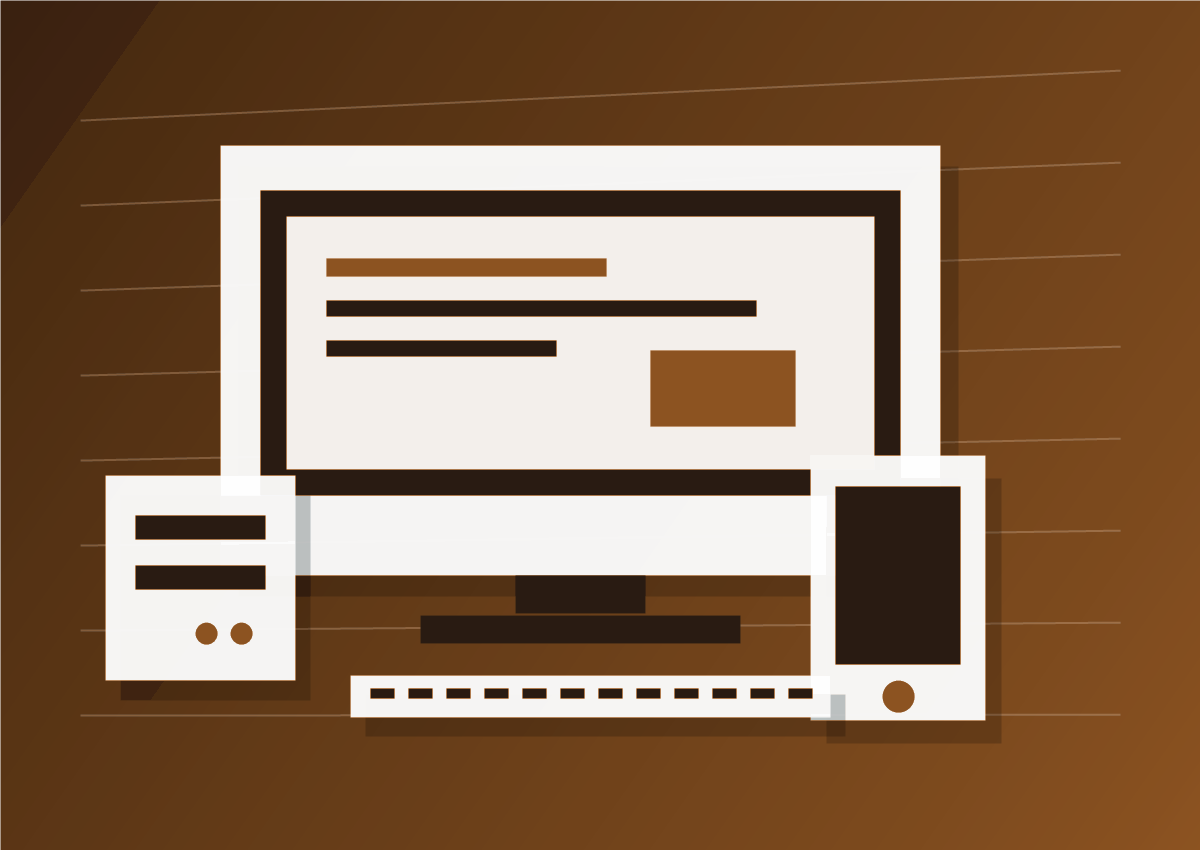
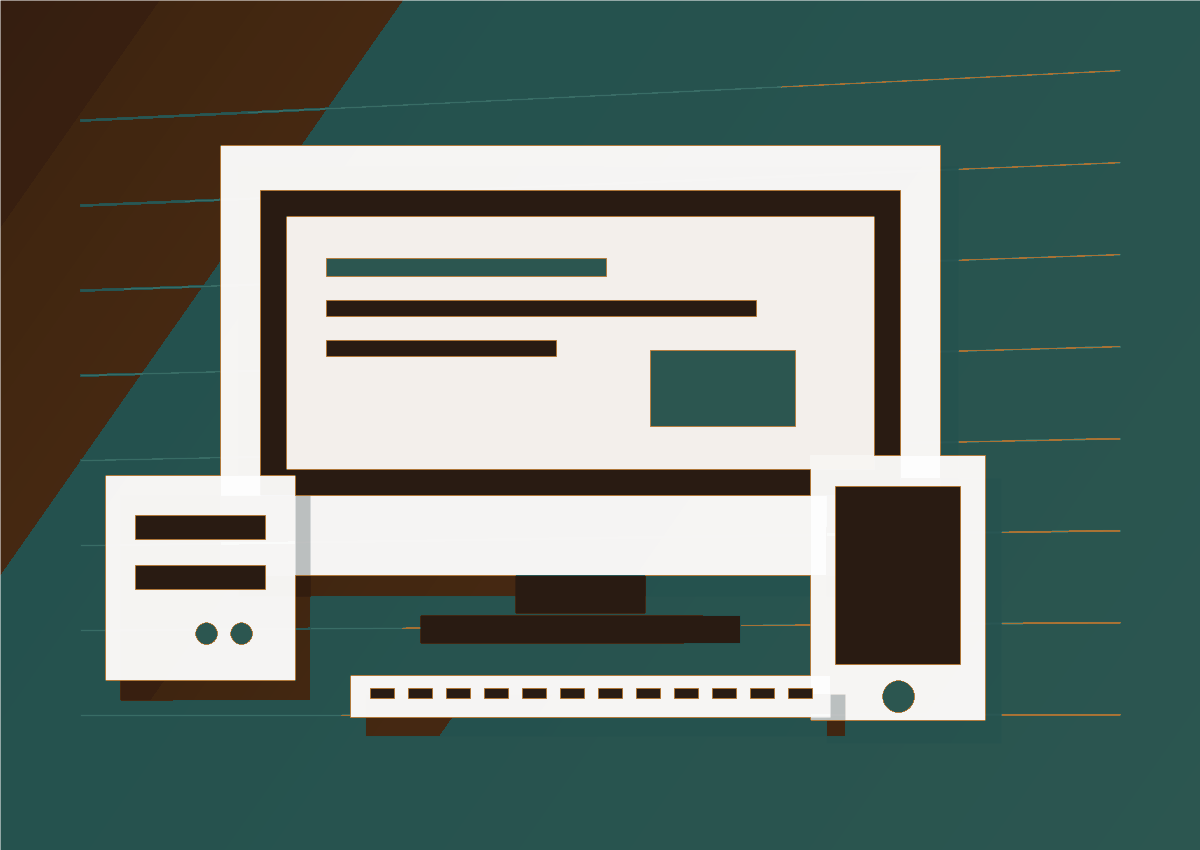
Update site color palette

diff --git a/style.css b/style.css
@@ -1,17 +1,17 @@
 :root {
-  --bg: #f7f2ec;
+  --bg: #f4f1ec;
   --surface: #ffffff;
-  --surface-soft: #f2e5d7;
+  --surface-soft: #e8f0e8;
   --ink: #24160f;
-  --muted: #6f5b4c;
-  --line: #e1d1c2;
+  --muted: #5f665f;
+  --line: #d8ded4;
   --primary: #5a341f;
   --primary-strong: #2d1a10;
-  --teal: #a4612d;
-  --teal-dark: #7a421d;
-  --warning: #a36a22;
+  --teal: #28706f;
+  --teal-dark: #1d5758;
+  --warning: #b0762f;
   --danger: #b42318;
-  --shadow: 0 18px 50px rgba(90, 52, 31, 0.14);
+  --shadow: 0 18px 50px rgba(90, 52, 31, 0.13);
   --radius: 8px;
 }
 
@@ -132,7 +132,7 @@ textarea {
   color: #ffffff;
   font-weight: 800;
   cursor: pointer;
-  box-shadow: 0 10px 20px rgba(164, 97, 45, 0.22);
+  box-shadow: 0 10px 20px rgba(40, 112, 111, 0.22);
 }
 
 .btn:hover {
@@ -162,7 +162,8 @@ textarea {
 .hero {
   padding: 58px 0 46px;
   background:
-    linear-gradient(135deg, rgba(45, 26, 16, 0.98), rgba(122, 66, 29, 0.92)),
+    radial-gradient(circle at 82% 18%, rgba(40, 112, 111, 0.24), transparent 36%),
+    linear-gradient(135deg, rgba(45, 26, 16, 0.98), rgba(90, 52, 31, 0.92)),
     linear-gradient(180deg, rgba(255, 255, 255, 0.08), transparent 42%);
   color: #ffffff;
 }
@@ -184,7 +185,7 @@ textarea {
 }
 
 .hero .eyebrow {
-  color: #ffd9a8;
+  color: #c6f0e5;
 }
 
 h1,
@@ -253,7 +254,7 @@ h3 {
   width: 10px;
   height: 10px;
   border-radius: 999px;
-  background: #f6c36f;
+  background: #f2b45b;
 }
 
 .hero-metrics {
@@ -397,7 +398,7 @@ a.service-card:hover {
   align-items: start;
   padding: 14px;
   border-style: dashed;
-  background: linear-gradient(180deg, #fffaf5, #ffffff);
+  background: linear-gradient(180deg, #f7fbf7, #ffffff);
   box-shadow: 0 8px 18px rgba(90, 52, 31, 0.05);
 }
 
@@ -464,7 +465,8 @@ a.service-card:hover {
 .service-detail-hero {
   padding: 54px 0;
   background:
-    linear-gradient(135deg, rgba(45, 26, 16, 0.98), rgba(122, 66, 29, 0.92)),
+    radial-gradient(circle at 78% 18%, rgba(40, 112, 111, 0.24), transparent 36%),
+    linear-gradient(135deg, rgba(45, 26, 16, 0.98), rgba(90, 52, 31, 0.92)),
     linear-gradient(180deg, rgba(255, 255, 255, 0.08), transparent 42%);
   color: #ffffff;
 }
@@ -477,7 +479,7 @@ a.service-card:hover {
 }
 
 .service-detail-hero .eyebrow {
-  color: #ffd9a8;
+  color: #c6f0e5;
 }
 
 .service-detail-hero .service-detail-grid > div > p:not(.eyebrow) {
@@ -819,7 +821,7 @@ a.service-card:hover {
 .picker-option.is-selected,
 .segment-option.is-selected {
   border-color: var(--teal-dark);
-  background: #f6eadc;
+  background: #e8f4f0;
   box-shadow: inset 0 0 0 1px var(--teal-dark);
 }
 
@@ -827,7 +829,7 @@ a.service-card:hover {
 .picker-option:disabled {
   opacity: 0.42;
   cursor: not-allowed;
-  background: #f4eee8;
+  background: #eef1ec;
   box-shadow: none;
 }
 
@@ -854,7 +856,7 @@ a.service-card:hover {
 .finish-preview {
   display: block;
   border-radius: 4px;
-  background: linear-gradient(135deg, #ffffff 0%, #f1e5d7 55%, #d7bea7 100%);
+  background: linear-gradient(135deg, #ffffff 0%, #e8f0e8 55%, #b7d6cf 100%);
   box-shadow: 0 12px 18px rgba(90, 52, 31, 0.14);
 }
 
@@ -899,11 +901,11 @@ a.service-card:hover {
 }
 
 .finish-varnish {
-  background: linear-gradient(135deg, #efe2d3 0%, #9b7255 52%, #fffaf5 100%);
+  background: linear-gradient(135deg, #e8f0e8 0%, #28706f 52%, #fffaf5 100%);
 }
 
 .finish-none {
-  background: linear-gradient(135deg, #ffffff 0%, #f5eadf 62%, #ddc6b0 100%);
+  background: linear-gradient(135deg, #ffffff 0%, #eef6f3 62%, #c7dcd5 100%);
 }
 
 .segmented-options {
@@ -924,7 +926,7 @@ a.service-card:hover {
   margin-bottom: 18px;
   padding: 18px;
   border-radius: var(--radius);
-  background: linear-gradient(135deg, #ffffff, #f2e5d7);
+  background: linear-gradient(135deg, #ffffff, #e8f0e8);
   border: 1px solid var(--line);
 }
 
@@ -1046,7 +1048,7 @@ select:focus,
 input:focus,
 textarea:focus {
   border-color: var(--teal);
-  box-shadow: 0 0 0 4px rgba(164, 97, 45, 0.16);
+  box-shadow: 0 0 0 4px rgba(40, 112, 111, 0.16);
 }
 
 .questions {
@@ -1104,8 +1106,8 @@ textarea:focus {
   padding: 12px;
   border-left: 3px solid var(--warning);
   border-radius: var(--radius);
-  background: #fff7e8;
-  color: #573500;
+  background: #fff5e8;
+  color: #5a341f;
   font-weight: 700;
 }
 
@@ -1139,7 +1141,7 @@ textarea:focus {
   padding: 14px;
   border: 1px solid var(--line);
   border-radius: var(--radius);
-  background: #fffaf5;
+  background: #f7fbf7;
 }
 
 .cart-item-header {
@@ -1196,7 +1198,7 @@ textarea:focus {
 }
 
 .contact-section {
-  background: linear-gradient(180deg, #f7f2ec, #ffffff);
+  background: linear-gradient(180deg, #f4f1ec, #ffffff);
 }
 
 .contact-grid {
